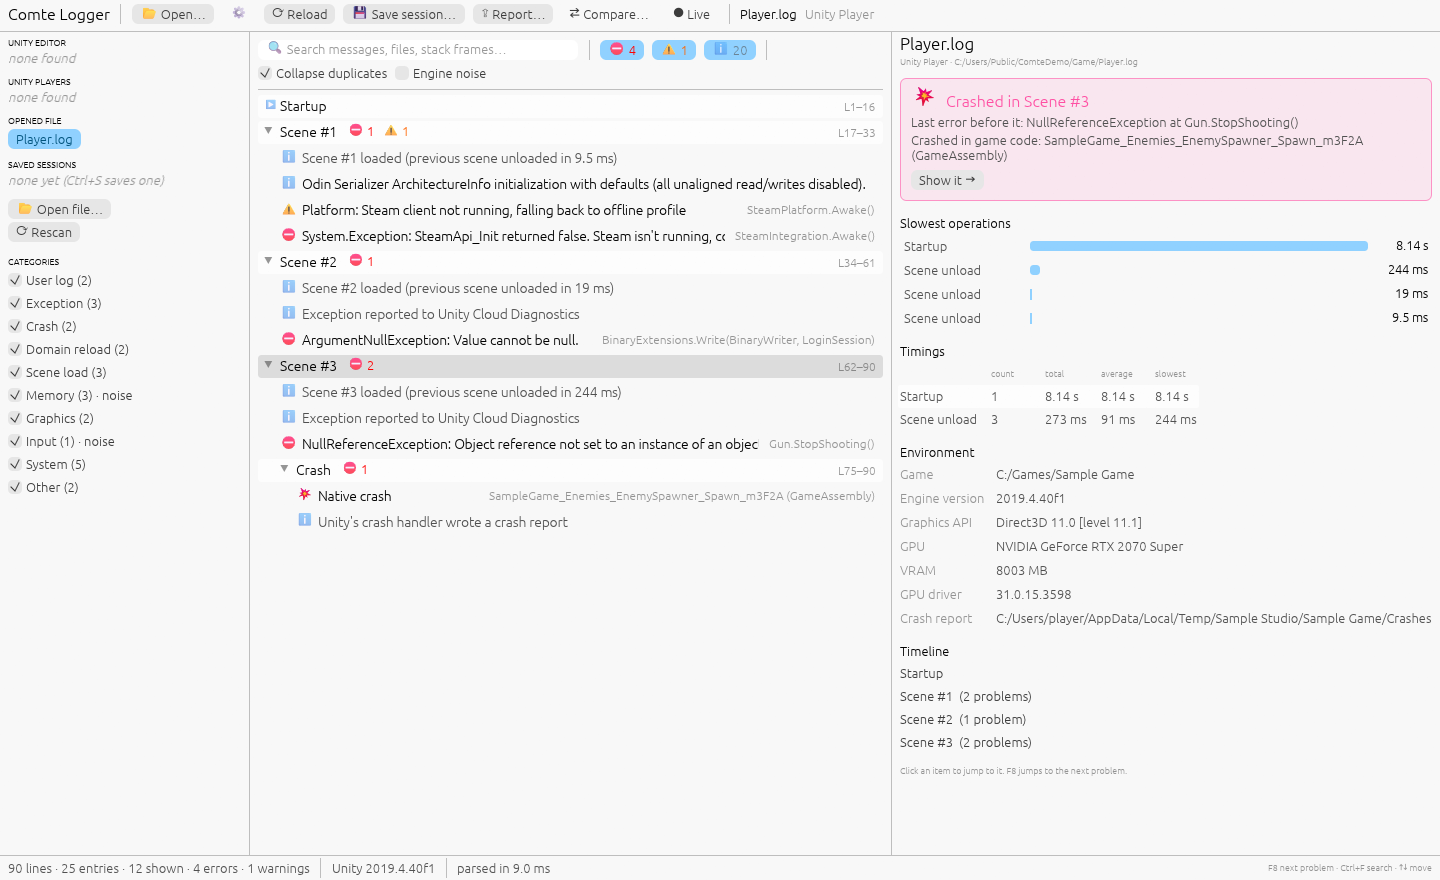
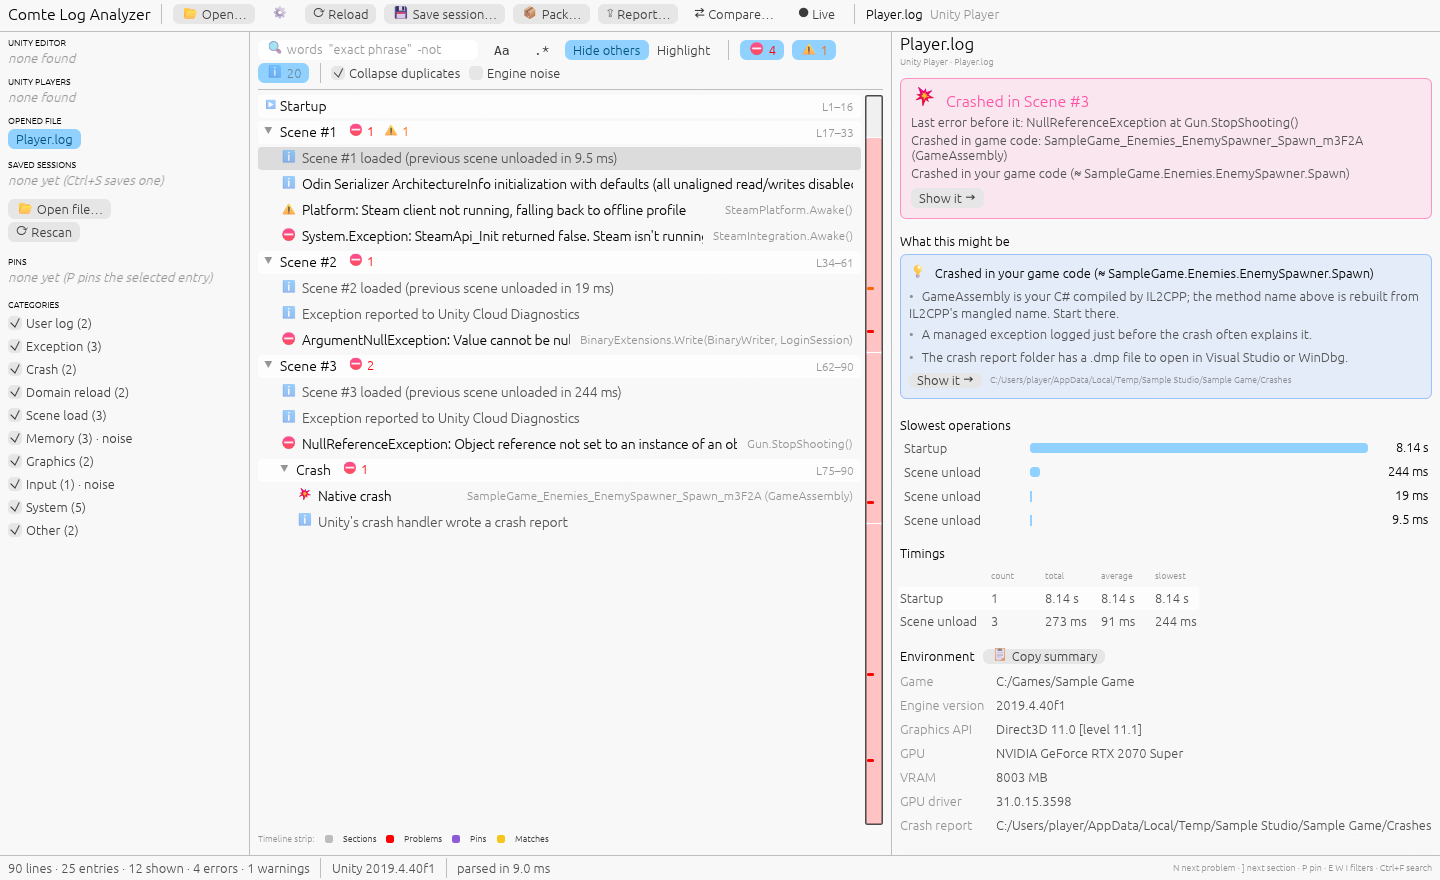
chore: add MIT/Apache-2.0 licence, CI and release workflow, restructure README

diff --git a/README.md b/README.md
@@ -2,17 +2,39 @@
 
 # Comte Log Analyzer
 
-*« Savoir pour prévoir »* (Auguste Comte): know the log so you can predict the bug.
+A Windows desktop app that turns Unity's noisy `Editor.log` and `Player.log` into something a person can read.
 
-Comte Log Analyzer is a Windows desktop app that turns Unity's noisy `Editor.log` and
-`Player.log` into something a person can read. It shows a timeline of what
-happened, which problems occurred and how often, and where in your code they
-started. You can save a log with a note to share it, compare two runs, and
-paste a short report into Jira or Slack.
+*« Savoir pour prévoir »* (Auguste Comte): know the log so you can predict the bug.
 
 ![Overview of a Player log that crashed](docs/images/overview.png)
 
+## Install and run
+
+- **Windows:** download the zip from the [latest release](https://github.com/cosgunhalil/comte-log-analyzer/releases/latest), unzip it, and run `comte-log-analyzer.exe`.
+- **From source** (Rust 1.95 or newer, edition 2024, MSVC toolchain): `cargo install --locked --git https://github.com/cosgunhalil/comte-log-analyzer comte-app`
+
+With no file given, the app opens your current Unity `Editor.log`. Drop any other log onto the window, or press Ctrl+O.
+
+## Will it read my log?
+
+- **Windows only for now.** macOS and Linux log locations are wired up but untested, so no builds are offered for them yet.
+- **Player.log:** tested with logs from 25 games built with Unity 2019.4, 2020.3, 2021.3, 2022.3 and Unity 6 (6000.0, 6000.2 and 6000.3).
+- **Editor.log:** tested with Unity 6000.3. Older Editor logs use the same building blocks, but they haven't been checked against real files yet.
+
 ## What it does
+
+- **Finds your logs on its own:** `Editor.log`, `Editor-prev.log` and every game's `Player.log` under `AppData\LocalLow`, plus related logs such as `upm.log` and the import workers' logs.
+- **Turns them into a readable timeline:** Startup, compiles, domain reloads, Play mode and scenes, with engine chatter hidden and repeats collapsed (×95).
+- **Explains what went wrong:** a one-line verdict ("Crashed in Scene #3"), native crashes traced to a GPU driver, your IL2CPP code, the engine or a plugin, and known problems such as out of memory or a removed graphics device. It also says where Unity got stuck: "⏳ Stopped while importing Assets/Hero.fbx".
+- **Opens logs too large for an editor:** runaway logs of many gigabytes open from their end, and the message that filled the file is named.
+- **Saves, shares and compares:** sessions with notes, tags and pins, redacted by default; a support pack zip for developers; Markdown or Slack reports; and a comparison with the previous run.
+- **Takes you to the code:** click `TurnView.cs:98` (or press Ctrl+E) and the file opens at that line in Rider, VS Code or Visual Studio.
+
+![Details of an exception with links into the project](docs/images/details.png)
+
+![Comparing the previous and the current Editor run](docs/images/compare.png)
+
+## All features
 
 - **Finds your logs.** `Editor.log`, `Editor-prev.log`, and every game's
   `Player.log` / `Player-prev.log` under `AppData\LocalLow`. Drop any other
@@ -90,13 +112,14 @@ paste a short report into Jira or Slack.
   Pins are listed on the left, saved with the session and included in
   reports, so whoever opens the file sees what you saw.
 
-![Details of an exception with links into the project](docs/images/details.png)
+[`docs/DESIGN.md`](docs/DESIGN.md) describes each feature in detail, along
+with the parsing rules learned from real logs.
 
-![Comparing the previous and the current Editor run](docs/images/compare.png)
+## Building from source
 
-## Getting started
-
-You need [Rust](https://rustup.rs/) 1.88 or newer on Windows (MSVC toolchain).
+You need [Rust](https://rustup.rs/) 1.95 or newer on Windows (MSVC toolchain).
+That minimum comes from the GUI library (egui/eframe 0.37); the code itself
+uses edition 2024 and `if let … && …` chains.
 
 ```bash
 cargo run --release -p comte-app --bin comte-log-analyzer
@@ -172,9 +195,6 @@ Settings are stored in `%APPDATA%\ComteLogAnalyzer\config\settings.toml`.
 | `crates/comte-unity` | Unity support: Editor and Player parsers, stack frame cleanup, log discovery. Sanitized test logs live in `tests/fixtures`. |
 | `crates/comte-app` | The desktop app (egui) and the `comte` command line. |
 
-[`docs/DESIGN.md`](docs/DESIGN.md) describes the design, the parsing rules
-learned from real logs, and the milestones.
-
 ## Development
 
 ```bash
@@ -184,6 +204,9 @@ cargo test --workspace
 ```bash
 cargo clippy --workspace --all-targets -- -D warnings
 ```
+
+CI runs both on every push and pull request, and builds the Windows release
+when a `v*` tag is pushed.
 
 - **Snapshot tests** use [insta](https://insta.rs/); review changes with `cargo insta review`.
 - **Visual checks:** the app can screenshot itself in a given state. See `crates/comte-app/src/devtools.rs` for the `COMTE_*` variables. For example:
@@ -196,3 +219,17 @@ cargo clippy --workspace --all-targets -- -D warnings
 
 Never commit real logs: they contain user names, tokens and machine ids.
 `samples/private/` is git-ignored for local samples.
+
+## License
+
+Licensed under either of
+
+- Apache License, Version 2.0 ([LICENSE-APACHE](LICENSE-APACHE))
+- MIT license ([LICENSE-MIT](LICENSE-MIT))
+
+at your option.
+
+Unless you explicitly state otherwise, any contribution intentionally
+submitted for inclusion in the work by you, as defined in the Apache-2.0
+license, shall be dual licensed as above, without any additional terms or
+conditions.

diff --git a/docs/release-notes/v0.1.0.md b/docs/release-notes/v0.1.0.md
@@ -1,0 +1,21 @@
+The first release of Comte Log Analyzer: a desktop app that turns Unity's `Editor.log` and `Player.log` into something a person can read.
+
+**Windows only.** Download `comte-log-analyzer-v0.1.0-windows-x64.zip` below, unzip it, and run `comte-log-analyzer.exe`. With no file given it opens your current Unity `Editor.log`; drop any other log onto the window. `comte.exe` is the command-line version (`--summary`, `--compare`, `--report`).
+
+## What it does
+
+- Finds your Editor and Player logs on its own, plus related logs such as `upm.log` and the import workers' logs.
+- Groups a log into a readable timeline (Startup, compiles, domain reloads, Play mode, scenes), with engine chatter hidden and repeats collapsed.
+- Explains what went wrong: a one-line verdict, native crashes traced to a GPU driver, your IL2CPP code, the engine or a plugin, known problems such as out of memory or a removed graphics device, and where Unity got stuck ("Stopped while importing Assets/Hero.fbx").
+- Opens logs too large for an editor, from their end, and names the message that filled the file.
+- Saves, shares and compares: sessions with notes, tags and pins, redacted by default; a support pack zip; Markdown or Slack reports; a comparison with the previous run.
+- Notices when domain reloads and compiles get slower than your earlier sessions, and shows where reload time goes.
+
+## Tested with
+
+- **Player.log:** logs from 25 games built with Unity 2019.4, 2020.3, 2021.3, 2022.3 and Unity 6 (6000.0, 6000.2, 6000.3).
+- **Editor.log:** Unity 6000.3. Older Editor versions haven't been checked against real logs yet.
+
+Building from source needs Rust 1.95 or newer. The executables are not code-signed, so Windows SmartScreen may ask you to confirm the first time you run them.
+
+Licensed under MIT or Apache-2.0, at your option.

diff --git a/docs/DESIGN.md b/docs/DESIGN.md
@@ -622,7 +622,7 @@ Each milestone ends with a suggested conventional commit. You commit it yourself
 
 ## 12. Conventions
 
-- Rust edition 2024, MSRV 1.88; `cargo fmt` and `cargo clippy --workspace --all-targets -- -D warnings` clean.
+- Rust edition 2024, MSRV 1.95 (set by egui/eframe 0.37); `cargo fmt` and `cargo clippy --workspace --all-targets -- -D warnings` clean.
 - **The assistant never commits.** Each task ends with a suggested [Conventional Commits](https://www.conventionalcommits.org/) message.
 - Real logs never go into the repo. Fixtures are trimmed and redacted, and `samples/private/` is git-ignored.
 
